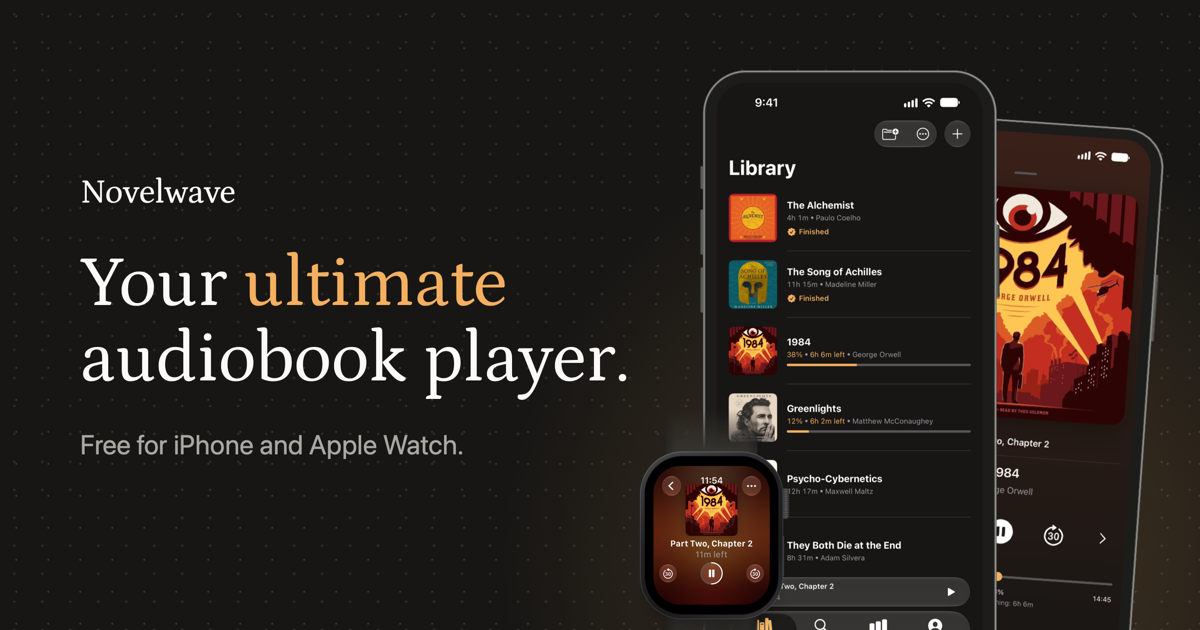
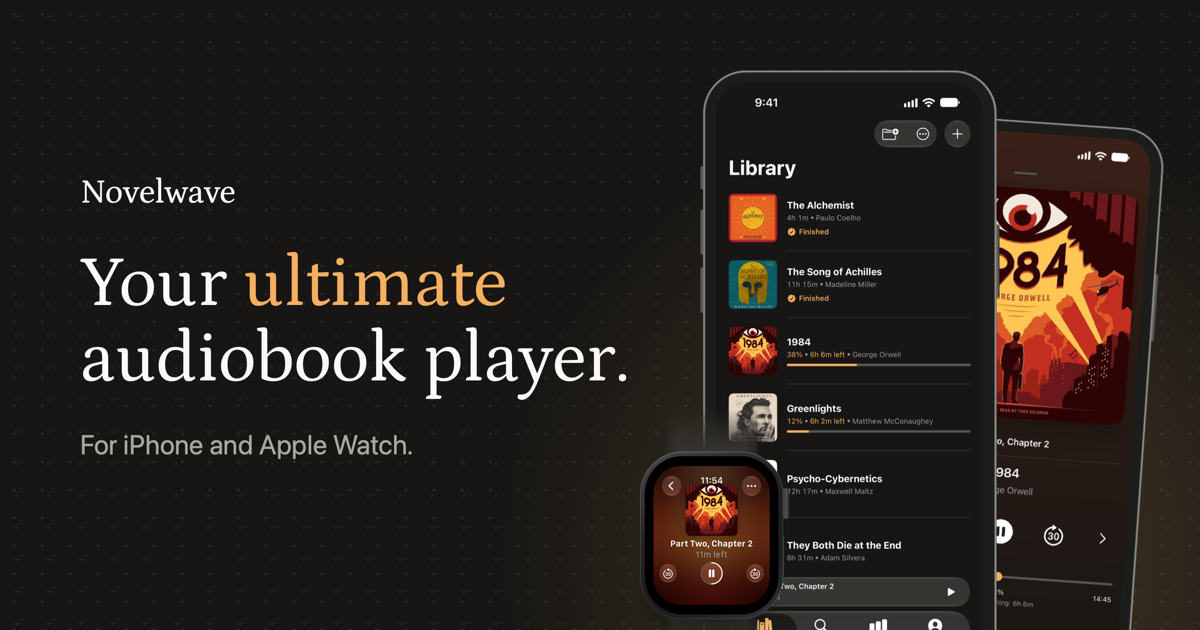
fix: drop the free claim and match the theme switch to the header
Novelwave will gain premium features, so the hero, meta descriptions,
share card and support FAQ no longer call it free. The theme switch now
uses the Roadmap button's height, border and fill.

Changed region(s): [[0.0617, 0.6937, 0.4008, 0.7238]]

diff --git a/styles.css b/styles.css
@@ -42,9 +42,6 @@
     --track: #C2C1C2;
     --glass: rgb(255 255 255 / 0.9);
     --tile-shadow: 0 1px 2px rgb(23 22 20 / 0.04), 0 24px 48px -32px rgb(23 22 20 / 0.25);
-    --toggle-track: #F5F5F5;
-    --toggle-thumb: #FFFFFF;
-    --toggle-icon: #BDBDBD;
     --toggle-shadow: 0 2px 6px rgb(0 0 0 / 0.1);
     --wallpaper: linear-gradient(140deg, #F1D7B8, #D98E62 55%, #9C4A2C);
     --car-bezel: #1A1918;
@@ -78,9 +75,6 @@
     --track: #575658;
     --glass: rgb(36 34 32 / 0.9);
     --tile-shadow: 0 24px 48px -32px rgb(0 0 0 / 0.6);
-    --toggle-track: #2F2F2F;
-    --toggle-thumb: #1D1D1D;
-    --toggle-icon: #939393;
     --toggle-shadow: 0 2px 6px rgb(0 0 0 / 0.35);
     --wallpaper: linear-gradient(140deg, #4A3020, #2A1E17 55%, #171614);
     --car-bezel: #0B0B0A;
@@ -316,25 +310,27 @@ figure {
 .theme-toggle {
     position: relative;
     display: flex;
-    padding: 0.25rem;
+    padding: 0.1875rem;
+    border: 1px solid var(--surface-border);
     border-radius: 999px;
-    background-color: var(--toggle-track);
-    transition: background-color var(--theme-transition);
+    background-color: var(--fill);
+    transition: background-color var(--theme-transition), border-color var(--theme-transition);
 }
 
 .theme-toggle[hidden] {
     display: none;
 }
 
+/* The thumb is the site's segmented-control selection: the surface color, lifted by a shadow. */
 .theme-toggle::before {
     content: "";
     position: absolute;
-    inset-block-start: 0.25rem;
-    inset-inline-start: 0.25rem;
-    width: 2.75rem;
-    height: 2.75rem;
+    inset-block-start: 0.1875rem;
+    inset-inline-start: 0.1875rem;
+    width: 2.25rem;
+    height: 2.25rem;
     border-radius: 50%;
-    background-color: var(--toggle-thumb);
+    background-color: var(--surface);
     box-shadow: var(--toggle-shadow);
     transition:
         transform var(--theme-transition),
@@ -350,10 +346,10 @@ figure {
     position: relative;
     display: grid;
     place-items: center;
-    width: 2.75rem;
-    height: 2.75rem;
+    width: 2.25rem;
+    height: 2.25rem;
     border-radius: 50%;
-    color: var(--toggle-icon);
+    color: var(--muted);
     transition: color var(--theme-transition), scale 250ms var(--ease-out-expo);
 }
 
@@ -362,8 +358,8 @@ figure {
 }
 
 .theme-option svg {
-    width: 1.25rem;
-    height: 1.25rem;
+    width: 1.125rem;
+    height: 1.125rem;
     fill: none;
     stroke: currentColor;
     stroke-width: 1.5;
@@ -3135,7 +3131,7 @@ figure {
 }
 
 .theme-option[aria-pressed="true"] {
-    color: var(--accent);
+    color: var(--accent-strong);
 }
 
 /* ==========================================================================
@@ -3340,6 +3336,7 @@ figure {
     .theme-toggle {
         position: static;
         padding: 0;
+        border: 0;
         background-color: transparent;
     }
 

diff --git a/index.html b/index.html
@@ -4,12 +4,12 @@
     <meta charset="UTF-8">
     <meta name="viewport" content="width=device-width, initial-scale=1.0">
     <meta name="color-scheme" content="light dark">
-    <meta name="description" content="Novelwave is a free audiobook player for iPhone and Apple Watch. Play the M4B, MP3 and Opus audiobooks you own, organize them into shelves and pick up right where you left off.">
+    <meta name="description" content="Novelwave is an audiobook player for iPhone and Apple Watch. Play the M4B, MP3 and Opus audiobooks you own, organize them into shelves and pick up right where you left off.">
     <title>Novelwave: Your ultimate audiobook player</title>
     <meta property="og:type" content="website">
     <meta property="og:site_name" content="Novelwave">
     <meta property="og:title" content="Novelwave: Your ultimate audiobook player">
-    <meta property="og:description" content="Novelwave is a free audiobook player for iPhone and Apple Watch. Play the M4B, MP3 and Opus audiobooks you own, organize them into shelves and pick up right where you left off.">
+    <meta property="og:description" content="Novelwave is an audiobook player for iPhone and Apple Watch. Play the M4B, MP3 and Opus audiobooks you own, organize them into shelves and pick up right where you left off.">
     <meta property="og:url" content="https://www.novelwave.app/">
     <meta property="og:image" content="https://www.novelwave.app/images/social-card.png">
     <meta property="og:image:width" content="1200">
@@ -111,7 +111,7 @@
         <section class="hero" aria-labelledby="hero-title">
             <div class="hero-copy">
                 <h1 class="hero-title" id="hero-title">Your <span class="accent">ultimate</span> audiobook player.</h1>
-                <p class="hero-lede">Free for iPhone and Apple Watch. Play the M4B, MP3 and Opus audiobooks you already own.</p>
+                <p class="hero-lede">For iPhone and Apple Watch. Play the M4B, MP3 and Opus audiobooks you already own.</p>
                 <div class="hero-actions">
                     <a class="app-store-button" href="https://apps.apple.com/app/id6720100886">
                         <picture>

diff --git a/support.html b/support.html
@@ -84,7 +84,7 @@
                 <h2 id="faq-start">Getting started</h2>
                 <details>
                     <summary>What do I need to use Novelwave?</summary>
-                    <div class="faq-answer"><p>An iPhone running iOS 17 or later. Novelwave is free to download. To use it on your wrist, you'll need an Apple Watch running watchOS 11 or later. To sync your library between devices, sign in to iCloud on each of them.</p></div>
+                    <div class="faq-answer"><p>An iPhone running iOS 17 or later. To use it on your wrist, you'll need an Apple Watch running watchOS 11 or later. To sync your library between devices, sign in to iCloud on each of them.</p></div>
                 </details>
                 <details>
                     <summary>How do I add audiobooks?</summary>
